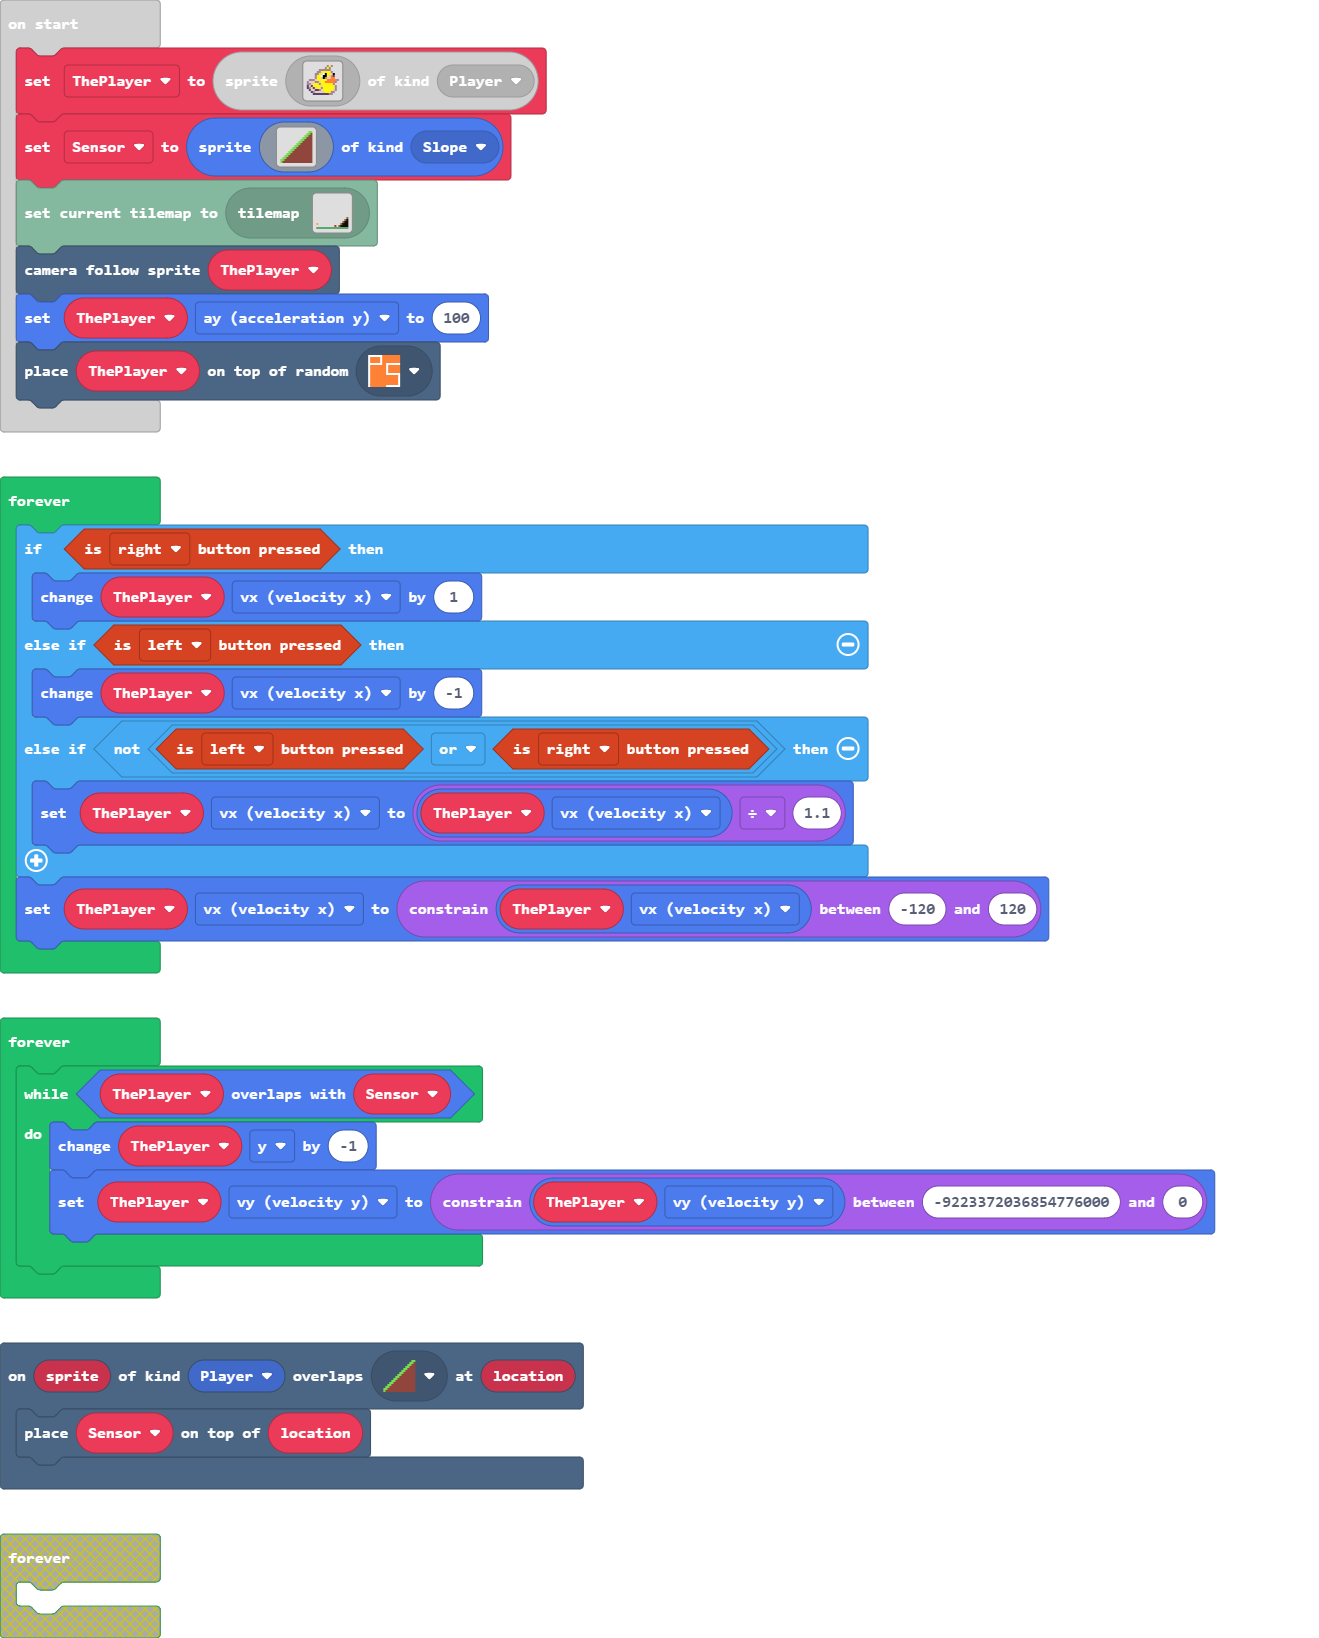
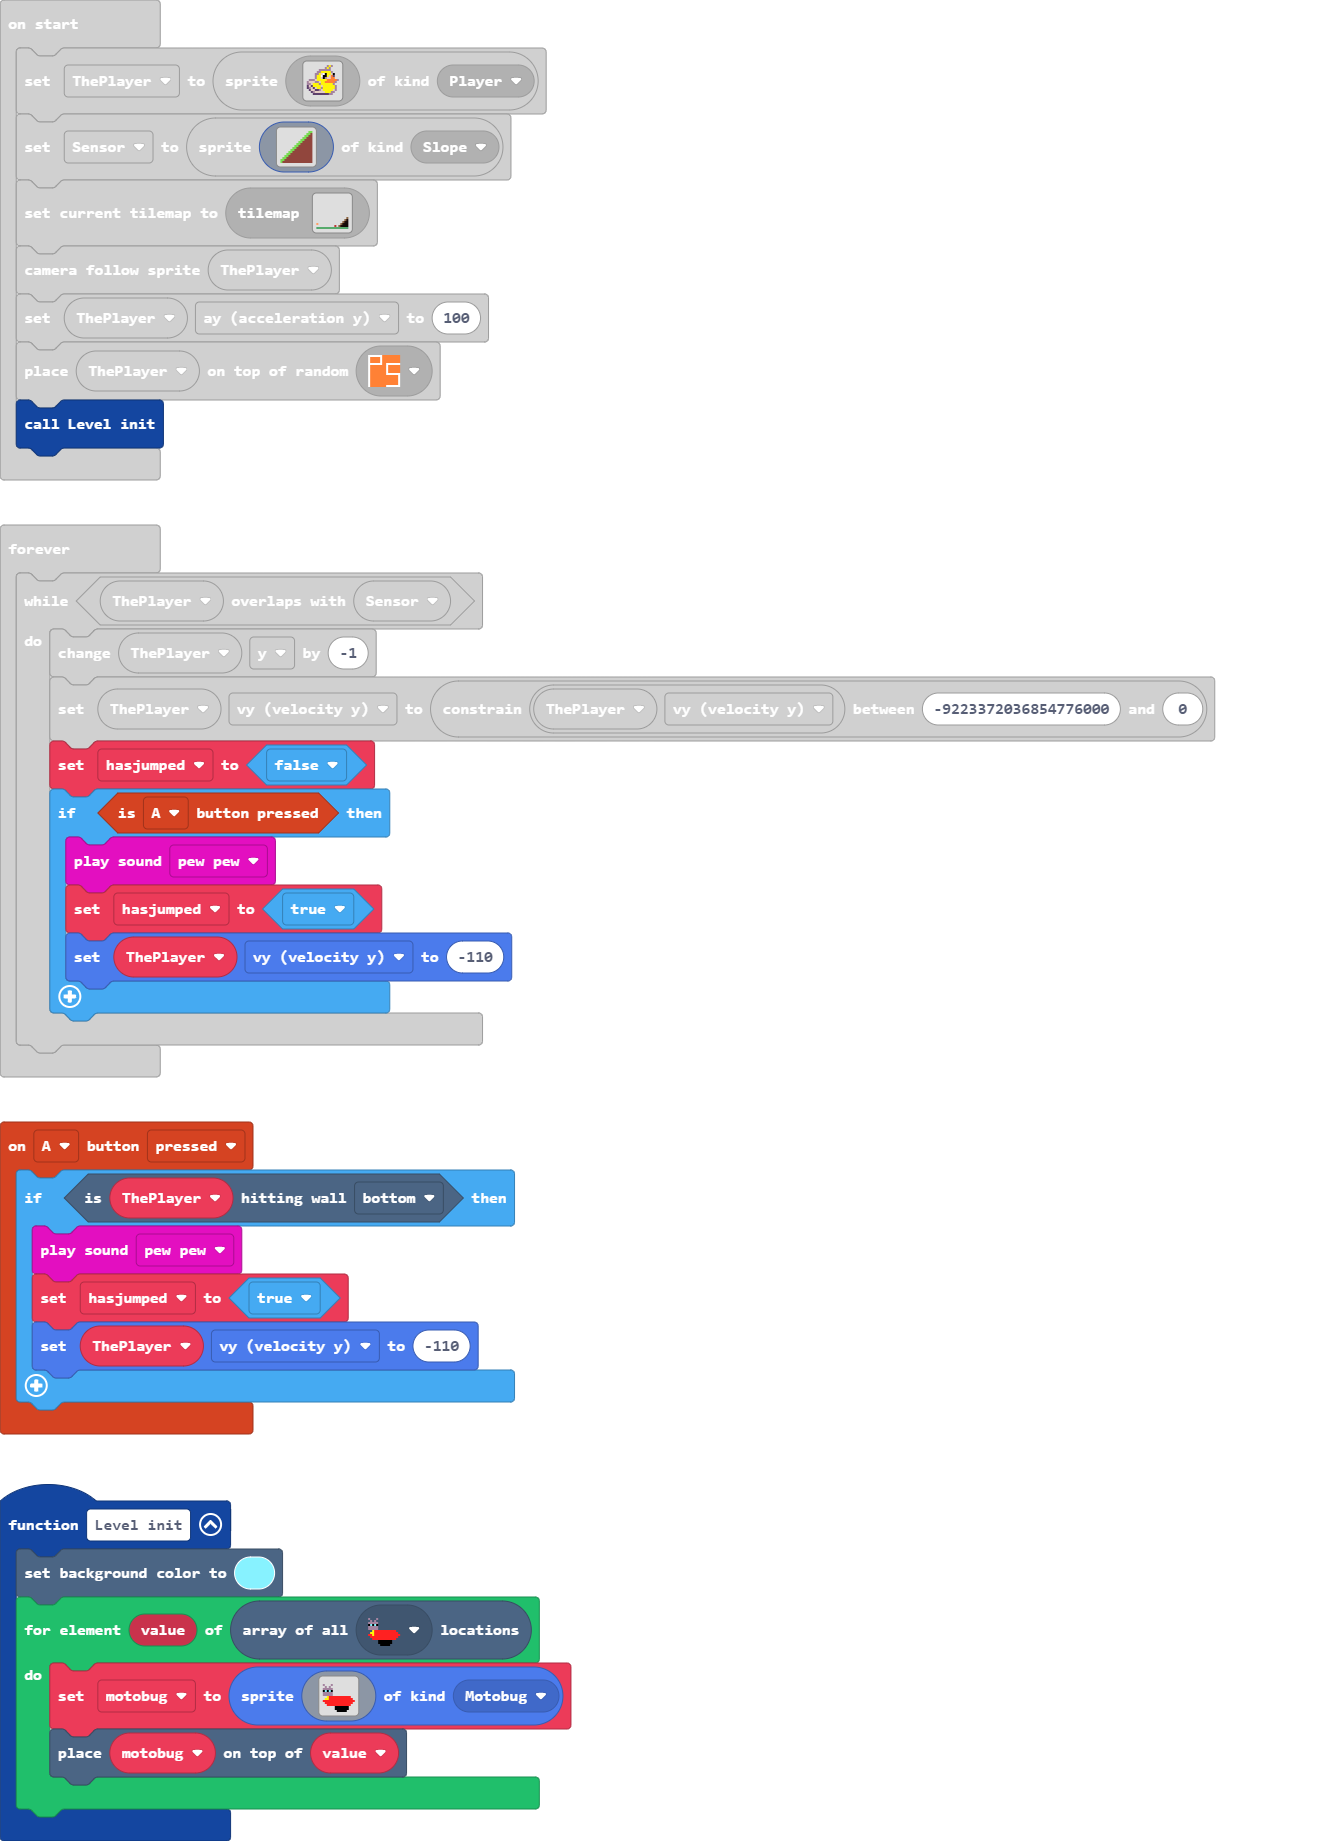
Update main.blocks, main.ts, images.g.jres, images.g.ts, tilemap.g.jres, tilemap.g.ts

diff --git a/images.g.ts b/images.g.ts
@@ -3,8 +3,27 @@ namespace myImages {
 
     helpers._registerFactory("image", function(name: string) {
         switch(helpers.stringTrim(name)) {
+            case "image2":
+            case "jump":return img`
+. . . f f f f f f f f f f . . . 
+. . f 5 5 5 5 5 5 5 5 5 5 f . . 
+. f 5 5 5 5 5 5 5 5 5 5 5 5 f . 
+f 5 5 5 5 5 5 5 5 5 1 1 1 5 5 f 
+f 5 5 5 5 5 5 5 5 5 5 5 1 5 5 f 
+f 5 5 5 5 5 5 5 5 5 5 5 1 5 5 f 
+f 5 5 5 5 5 5 5 5 5 5 5 5 5 5 f 
+f 5 5 5 5 5 5 5 5 5 5 5 5 5 5 f 
+f 5 5 5 5 5 5 5 5 5 5 5 5 5 5 f 
+f 5 5 5 5 5 5 5 5 5 5 5 5 5 5 f 
+f 5 5 5 5 5 5 5 5 5 5 5 5 5 5 f 
+f 5 5 5 5 5 5 5 5 5 5 5 5 5 5 f 
+f 5 5 5 5 5 5 5 5 5 5 5 5 5 5 f 
+. f 5 5 5 5 5 5 5 5 5 5 5 5 f . 
+. . f 5 5 5 5 5 5 5 5 5 5 f . . 
+. . . f f f f f f f f f f . . . 
+`;
             case "image1":
-            case "duck right":return img`
+            case "player":return img`
 . . . . . . . . . . b 5 b . . . 
 . . . . . . . . . b 5 b . . . . 
 . . . . . . b b b b b b . . . . 
@@ -21,6 +40,120 @@ c b d c d 5 5 b 5 5 5 5 5 5 b .
 . . c b d d d d d 5 5 5 b b . . 
 . . . c c c c c c c c b b . . . 
 . . . . . . . . . . . . . . . . 
+`;
+            case "image3":
+            case "playerl":return img`
+. . . b 5 b . . . . . . . . . . 
+. . . . b 5 b . . . . . . . . . 
+. . . . b b b b b b . . . . . . 
+. . . b 5 5 5 5 5 b b . . . . . 
+. . f d 5 5 f 1 d 5 b b . . . . 
+. . c 4 d 5 f f 1 5 5 b . . . . 
+. . 4 4 d d b f d 5 5 b . . . . 
+b 4 4 4 4 4 5 5 5 5 5 d b b b . 
+. b 4 4 4 4 4 5 5 d b b d d d b 
+. . b 5 5 5 5 5 5 b 5 5 5 d b b 
+. b 5 5 5 5 5 5 d 5 5 5 5 c d c 
+. b 5 5 5 5 5 5 b 5 5 d c d b c 
+. b d 5 5 5 5 5 d b c c d d c . 
+. . b b 5 5 5 d d d d d b c . . 
+. . . b b c c c c c c c c . . . 
+. . . . . . . . . . . . . . . . 
+`;
+            case "[)mLZC}:w{wor!yaICje":
+            case "slope":return img`
+. . . . . . . . . . . . . . 7 7 
+. . . . . . . . . . . . . 7 7 e 
+. . . . . . . . . . . . 7 7 e e 
+. . . . . . . . . . . 7 7 e e e 
+. . . . . . . . . . 7 7 e e e e 
+. . . . . . . . . 7 7 e e e e e 
+. . . . . . . . 7 7 e e e e e e 
+. . . . . . . 7 7 e e e e e e e 
+. . . . . . 7 7 e e e e e e e e 
+. . . . . 7 7 e e e e e e e e e 
+. . . . 7 7 e e e e e e e e e e 
+. . . 7 7 e e e e e e e e e e e 
+. . 7 7 e e e e e e e e e e e e 
+. 7 7 e e e e e e e e e e e e e 
+7 7 e e e e e e e e e e e e e e 
+7 e e e e e e e e e e e e e e e 
+`;
+            case "image4":
+            case "duckHurt":return img`
+. . . . . . . . . b 5 b . . . . 
+. . . . . . . . . b 5 b . . . . 
+. . . . . . b b b b b b . . . . 
+. . . . . b b 5 5 5 5 5 b . . . 
+. . . . b b 5 b c 5 5 d 4 c . . 
+. b b b b 5 5 5 b f d d 4 4 4 b 
+. b d 5 b 5 5 b c b 4 4 4 4 b . 
+. . b 5 5 b 5 5 5 4 4 4 4 b . . 
+. . b d 5 5 b 5 5 5 5 5 5 b . . 
+. b d b 5 5 5 d 5 5 5 5 5 5 b . 
+b d d c d 5 5 b 5 5 5 5 5 5 b . 
+c d d d c c b 5 5 5 5 5 5 5 b . 
+c b d d d d d 5 5 5 5 5 5 5 b . 
+. c d d d d d d 5 5 5 5 5 d b . 
+. . c b d d d d d 5 5 5 b b . . 
+. . . c c c c c c c c b b . . . 
+`;
+            case "image5":
+            case "duckHurt0":return img`
+. . . . b 5 b . . . . . . . . . 
+. . . . b 5 b . . . . . . . . . 
+. . . . b b b b b b . . . . . . 
+. . . b 5 5 5 5 5 b b . . . . . 
+. . c 4 d 5 5 c b 5 b b . . . . 
+b 4 4 4 d d f b 5 5 5 b b b b . 
+. b 4 4 4 4 b c b 5 5 b 5 d b . 
+. . b 4 4 4 4 5 5 5 b 5 5 b . . 
+. . b 5 5 5 5 5 5 b 5 5 d b . . 
+. b 5 5 5 5 5 5 d 5 5 5 b d b . 
+. b 5 5 5 5 5 5 b 5 5 d c d d b 
+. b 5 5 5 5 5 5 5 b c c d d d c 
+. b 5 5 5 5 5 5 5 d d d d d b c 
+. b d 5 5 5 5 5 d d d d d d c . 
+. . b b 5 5 5 d d d d d b c . . 
+. . . b b c c c c c c c c . . . 
+`;
+            case "image7":
+            case "motobugright":return img`
+. . . . . . . . . . . . . . . . 
+. . . . . . . . . . . . . . . . 
+. . . . . . . . . . . b . . . b 
+. . . . . . . . . . . . b . b . 
+. . . . . . . . . . . b b b b b 
+. . . . . . . . . . . f 9 f 9 f 
+. . . . . . . . . . . b b b b b 
+. . . . . . . . . . . b b b b b 
+. . 2 2 2 2 2 2 2 2 2 2 2 5 . . 
+. 2 2 2 2 2 2 2 2 2 2 2 2 5 5 . 
+2 2 2 2 2 2 2 2 2 2 2 2 2 2 2 2 
+. 2 2 2 2 2 2 2 2 2 2 2 2 2 2 . 
+. . 2 2 2 2 2 2 2 2 2 2 2 2 . . 
+. . . f f f f f f f . . . . . . 
+. . . f f f f f f f . . . . . . 
+. . . . f f f f f . . . . . . . 
+`;
+            case "image6":
+            case "motobugleft":return img`
+. . . . . . . . . . . . . . . . 
+. . . . . . . . . . . . . . . . 
+b . . . b . . . . . . . . . . . 
+. b . b . . . . . . . . . . . . 
+b b b b b . . . . . . . . . . . 
+f 9 f 9 f . . . . . . . . . . . 
+b b b b b . . . . . . . . . . . 
+b b b b b . . . . . . . . . . . 
+. . 5 2 2 2 2 2 2 2 2 2 2 2 . . 
+. 5 5 2 2 2 2 2 2 2 2 2 2 2 2 . 
+2 2 2 2 2 2 2 2 2 2 2 2 2 2 2 2 
+. 2 2 2 2 2 2 2 2 2 2 2 2 2 2 . 
+. . 2 2 2 2 2 2 2 2 2 2 2 2 . . 
+. . . . . . f f f f f f f . . . 
+. . . . . . f f f f f f f . . . 
+. . . . . . . f f f f f . . . . 
 `;
         }
         return null;

diff --git a/main.ts b/main.ts
@@ -1,8 +1,16 @@
 namespace SpriteKind {
     export const Slope = SpriteKind.create()
+    export const Motobug = SpriteKind.create()
 }
 scene.onOverlapTile(SpriteKind.Player, assets.tile`myTile`, function (sprite, location) {
     tiles.placeOnTile(Sensor, location)
+})
+controller.A.onEvent(ControllerButtonEvent.Pressed, function () {
+    if (ThePlayer.isHittingTile(CollisionDirection.Bottom)) {
+        music.pewPew.play()
+        hasjumped = true
+        ThePlayer.vy = -110
+    }
 })
 function get_music_track (num: number) {
     return [
@@ -13,6 +21,13 @@ function get_music_track (num: number) {
     "boss:d=4,o=5,b=155:8e6,8p,16g,16p,8p,16g,16p,8p,8g,8p,16e,16p,8p,16e,16p,8p,8e,8p,16e,16p,8p,16e,16p,8p,g.,p.,2f#,2p,8e6,8p,16g,16p,8p,16g,16p,8p,8g,8p,16e,16p,8p,16e,16p,8p,8e,8p,16e,16p,8p,16e,16p,8p,g.,p.,2f#,1p,1p,8e6,8p,16g,16p,8p,16g,16p,8p,8g,8p,16e,16p,8p,16e,16p,8p,8e,8p,16e,16p,8p,16e,16p,8p,g.,p.,2f#,2p,8e6,8p,16g,16p,8p,16g,16p,8p,8g,8p,16e,16p,8p,16e,16p,8p,8e,8p,16e,16p,8p,16e,16p,8p,g.,p.,2f#"
     ][num]
 }
+function Level_init () {
+    scene.setBackgroundColor(9)
+    for (let value of tiles.getTilesByType(assets.tile`myTile0`)) {
+        motobug = sprites.create(assets.image`motobugleft`, SpriteKind.Motobug)
+        tiles.placeOnTile(motobug, value)
+    }
+}
 function get_music_speed (num: number) {
     return [
     185,
@@ -22,30 +37,17 @@ function get_music_speed (num: number) {
     140
     ][num]
 }
+let motobug: Sprite = null
+let hasjumped = false
 let Sensor: Sprite = null
-let ThePlayer = sprites.create(assets.image`duck right`, SpriteKind.Player)
-Sensor = sprites.create(img`
-    . . . . . . . . . . . . . . 7 7 
-    . . . . . . . . . . . . . 7 7 e 
-    . . . . . . . . . . . . 7 7 e e 
-    . . . . . . . . . . . 7 7 e e e 
-    . . . . . . . . . . 7 7 e e e e 
-    . . . . . . . . . 7 7 e e e e e 
-    . . . . . . . . 7 7 e e e e e e 
-    . . . . . . . 7 7 e e e e e e e 
-    . . . . . . 7 7 e e e e e e e e 
-    . . . . . 7 7 e e e e e e e e e 
-    . . . . 7 7 e e e e e e e e e e 
-    . . . 7 7 e e e e e e e e e e e 
-    . . 7 7 e e e e e e e e e e e e 
-    . 7 7 e e e e e e e e e e e e e 
-    7 7 e e e e e e e e e e e e e e 
-    7 e e e e e e e e e e e e e e e 
-    `, SpriteKind.Slope)
+let ThePlayer: Sprite = null
+ThePlayer = sprites.create(assets.image`player`, SpriteKind.Player)
+Sensor = sprites.create(assets.image`slope`, SpriteKind.Slope)
 tiles.loadMap(tiles.createMap(tilemap`level1`))
 scene.cameraFollowSprite(ThePlayer)
 ThePlayer.ay = 100
 tiles.placeOnRandomTile(ThePlayer, assets.tile`myTile1`)
+Level_init()
 forever(function () {
     if (controller.right.isPressed()) {
         ThePlayer.vx += 1
@@ -63,5 +65,11 @@ forever(function () {
     while (ThePlayer.overlapsWith(Sensor)) {
         ThePlayer.y += -1
         ThePlayer.vy = Math.constrain(ThePlayer.vy, -9223372036854776000, 0)
+        hasjumped = false
+        if (controller.A.isPressed()) {
+            music.pewPew.play()
+            hasjumped = true
+            ThePlayer.vy = -110
+        }
     }
 })

diff --git a/tilemap.g.ts b/tilemap.g.ts
@@ -8,6 +8,8 @@ namespace myTiles {
     export const tile2 = image.ofBuffer(hex``);
     //% fixedInstance jres blockIdentity=images._tile
     export const tile3 = image.ofBuffer(hex``);
+    //% fixedInstance jres blockIdentity=images._tile
+    export const tile4 = image.ofBuffer(hex``);
 
     helpers._registerFactory("tilemap", function(name: string) {
         switch(helpers.stringTrim(name)) {
@@ -43,6 +45,8 @@ namespace myTiles {
             case "tile2":return tile2;
             case "myTile1":
             case "tile3":return tile3;
+            case "myTile2":
+            case "tile4":return tile4;
         }
         return null;
     })
